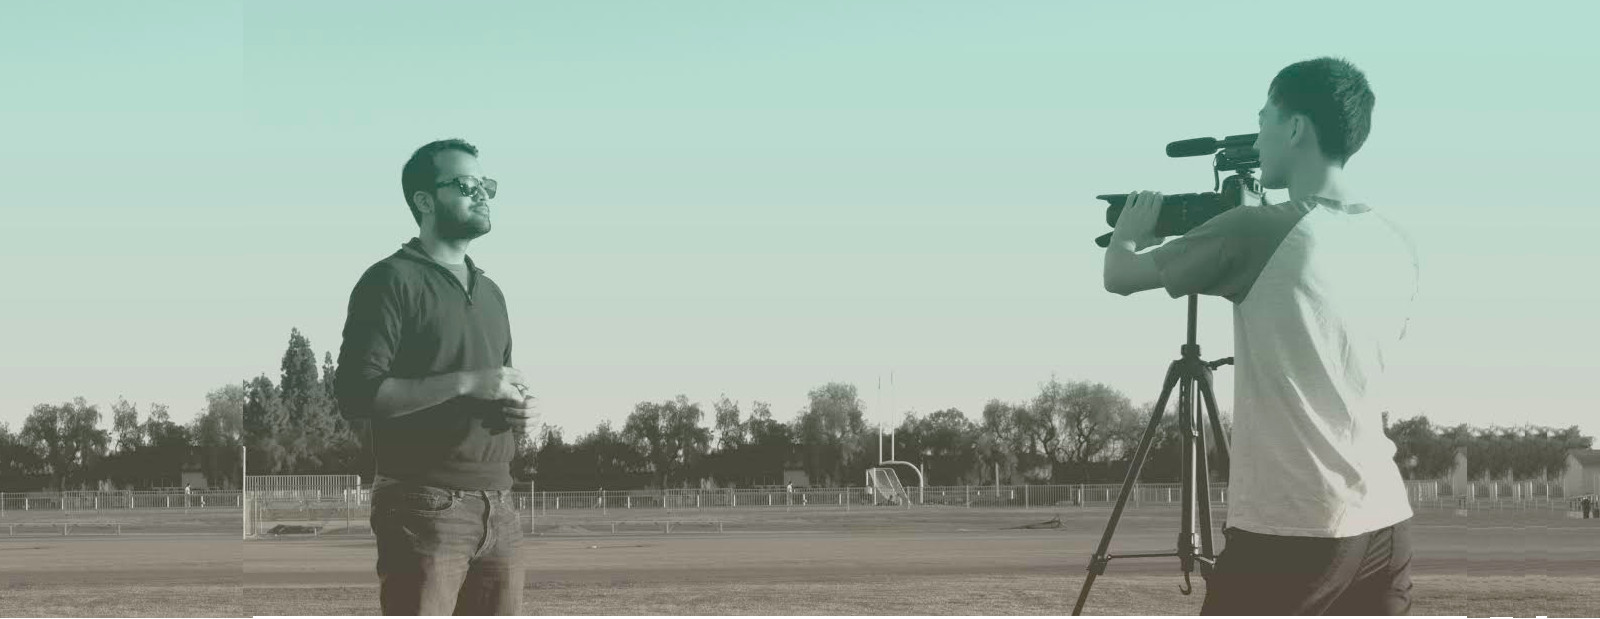
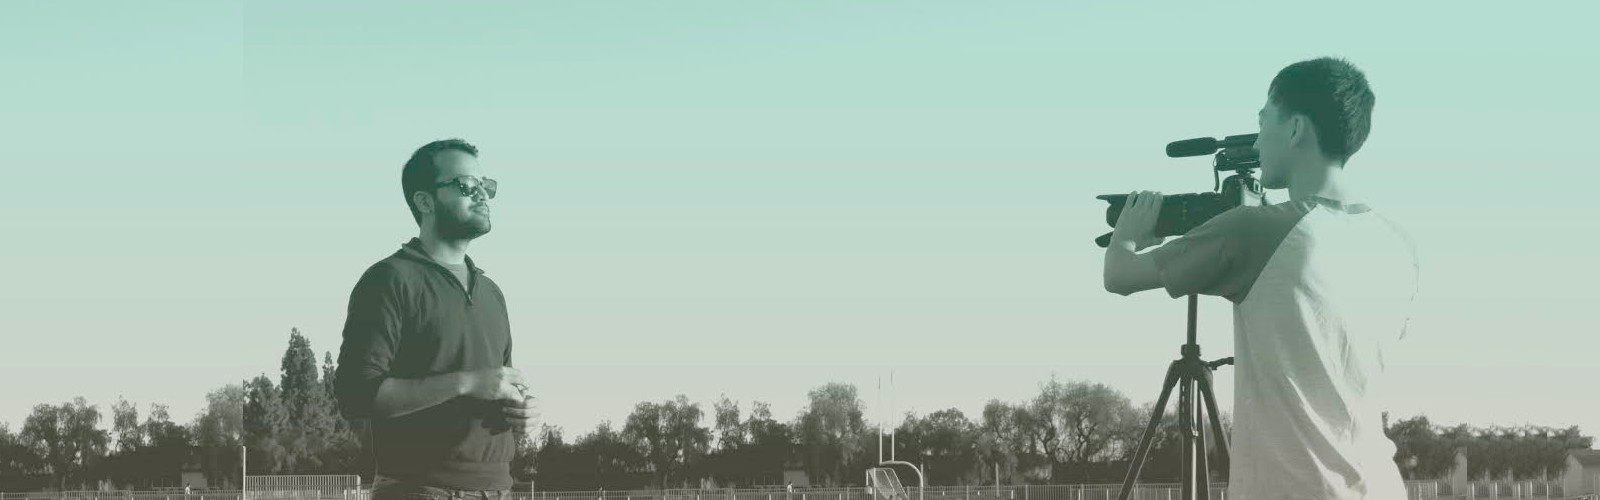
Updates to main image

diff --git a/app/assets/stylesheets/core/_foundation_variables.scss b/app/assets/stylesheets/core/_foundation_variables.scss
@@ -1369,8 +1369,8 @@ $input-error-message-font-color-alt: $alert-color;
 // $include-html-top-bar-classes: $include-html-classes;
 
 // Background color for the top bar
-$topbar-bg-color: $white;
-$topbar-bg: $topbar-bg-color;
+$topbar-bg-color: transparent;
+// $topbar-bg: $topbar-bg-color;
 
 // Height and margin
 $topbar-height: rem-calc(60);
@@ -1381,7 +1381,7 @@ $topbar-height: rem-calc(60);
 // $topbar-title-font-size: rem-calc(17);
 
 // Style the top bar dropdown elements
-// $topbar-dropdown-bg: $oil;
+$topbar-dropdown-bg: $topbar-bg-color;
 // $topbar-dropdown-link-color: $white;
 // $topbar-dropdown-link-bg: $oil;
 // $topbar-dropdown-link-bg-hover: $oil;

diff --git a/app/assets/stylesheets/_home.scss b/app/assets/stylesheets/_home.scss
@@ -1,10 +1,12 @@
 .home-main-image {
-  background: image-url('home-main-image.jpg') center top no-repeat;
-  height: rem-calc(550px);
+  $my-offset: rem-calc(30px);
+  background: image-url('home-main-image.jpg') center $my-offset no-repeat #afd9cd;
+  height: rem-calc(500px) + $my-offset;
 
   .row {
     max-width: 100%;
     width: rem-calc(550px);
+    padding-top: 3rem + $topbar-height;
   }
 
   p {

diff --git a/app/assets/stylesheets/_shared.scss b/app/assets/stylesheets/_shared.scss
@@ -1,7 +1,13 @@
 .amass {
+  @include e(topbar) {
+    background: rgba($white, .95);
+  }
+
   @include e(heading) {
+    $my-padding: .5rem;
+
     background: $amass-green;
-    padding: .5rem 0;
+    padding: ($my-padding + $topbar-height) 0 $my-padding;
 
     h1 {
       color: $white;

diff --git a/app/assets/stylesheets/_foundation_and_overrides.scss b/app/assets/stylesheets/_foundation_and_overrides.scss
@@ -7,3 +7,8 @@ $include-html-global-classes: true;
 
 @import 'normalize';
 @import 'foundation';
+
+// Foundation top-bar JS adds padding-top.  Let's override it
+body {
+  padding-top: 0 !important;
+}

diff --git a/app/assets/stylesheets/core/_index.scss b/app/assets/stylesheets/core/_index.scss
@@ -1,3 +1,3 @@
 @import 'bourbon';
-@import './foundation';
+@import './foundation_variables';
 @import './bem';
